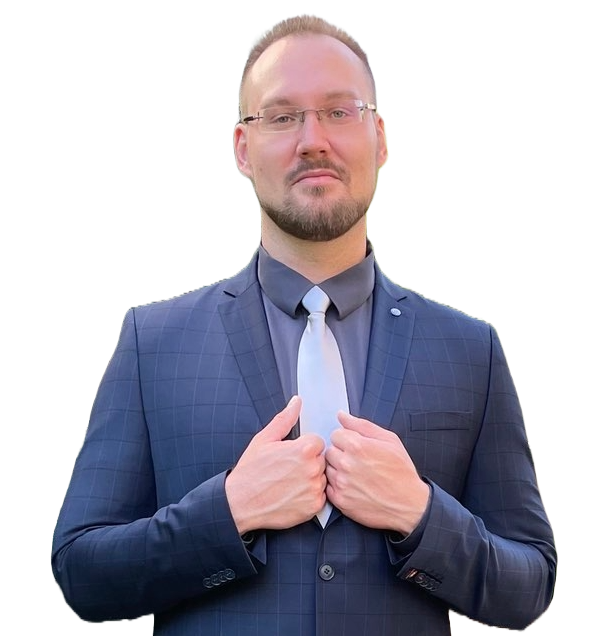
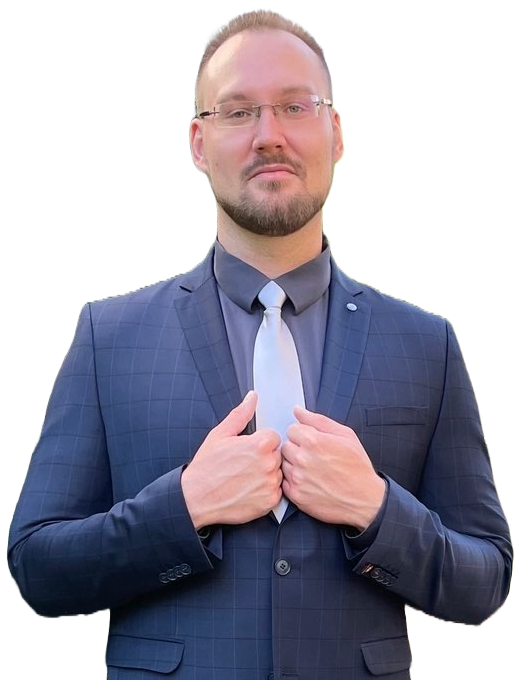
header and above the fold section

diff --git a/src/app/main-content/above-the-fold/above-the-fold.component.scss b/src/app/main-content/above-the-fold/above-the-fold.component.scss
@@ -1,35 +1,114 @@
 @import './../../../styles.scss';
 
 section {
+    position: relative;
+
     display: flex;
     justify-content: space-between;
     align-items: center;
 
-
     width: 1440px;
 
-    border: 1px solid black;
+    background-color: $backgroundColorBlack;
+
+    &>img {
+        position: absolute;
+        top: 242px;
+
+        width: 100%;
+
+        object-fit: contain;
+    }
+}
+
+.profil {
+    display: flex;
+    flex-direction: column;
 
     &>div:nth-child(1) {
-        position: relative;
+        display: flex;
+        justify-content: flex-start;
+        align-items: flex-start;
+
+        width: 807px;
+        height: 771px;
+
+        background-image: url('./../../../assets/graphics/shadows/photo\ shadows.png');
+        background-repeat: no-repeat;
+        background-position: -56px 72px;
+        background-size: contain;
 
         &>img {
-            width: 646px;
-            height: 705px;
-
             object-fit: contain;
 
-            border: 1px solid black;
-        }
-
-        &>img:nth-child(2) {
-            position: absolute;
-            left: 0;
+            margin-left: 64px;
         }
     }
 
-    &>div:nth-child(2) {
+    .find-me-on {
         display: flex;
-        justify-content: center;
+        gap: 32px;
+
+        z-index: 99;
+
+        &>div {
+            display: flex;
+            align-items: center;
+
+            &>div {
+                width: 100px;
+
+                border: 4px solid $textColorPurple;
+
+            }
+        }
+
+        &>nav {
+            display: flex;
+            gap: 42px;
+        }
+
+        &>a {
+            font-size: 23px;
+
+            color: $textColorWhite;
+        }
+    }
+}
+
+.headline {
+    position: absolute;
+    right: 56px;
+    top: 160px;
+
+    display: flex;
+    justify-content: center;
+    align-items: center;
+
+    color: $textColorWhite;
+
+    &>span {
+        display: inline-flex;
+        font-size: 64px;
+
+        transform: translateX(20px) rotate(-90deg);
+    }
+
+    &>div {
+        text-align: center;
+
+        &>span {
+            line-height: 92px;
+        }
+
+        &>span:nth-child(1) {
+            font-size: 84px;
+        }
+
+        &>span:nth-child(3) {
+            font-size: 58px;
+
+            color: $textColorPurple;
+        }
     }
 }

diff --git a/src/app/main-content/above-the-fold/above-the-fold.component.html b/src/app/main-content/above-the-fold/above-the-fold.component.html
@@ -1,13 +1,45 @@
 <section>
-    <div>
-        <img src="./../../../assets/graphics/shadows/photo shadows.png" alt="">
-        <img src="./../../../assets/graphics/profil/profil_1.png" alt="">
+
+    <div class="profil">
+
+        <div>
+            <img src="./../../../assets/graphics/profil/profil_1.png" alt="">
+        </div>
+
+        <div class="find-me-on">
+            <div>
+                <div></div>
+            </div>
+
+            <nav>
+                <a href="">
+                    <img src="./../../../assets/graphics/icons/github-small.png" alt="">
+                </a>
+                <a href="">
+                    <img src="./../../../assets/graphics/icons/email-small.png" alt="">
+                </a>
+                <a href="">
+                    <img src="./../../../assets/graphics/icons/linkedin-small.png" alt="">
+                </a>
+            </nav>
+
+            <a href="#">stephan.schmidt821&#64;gmail.com</a>
+        </div>
+
     </div>
-    <div class="font-family-poppins">
+
+    <div class="headline font-family-poppins">
+
         <span>I am</span>
+
         <div>
             <span><b>Stephan Schmidt</b></span>
+            <br>
             <span>FRONTEND DEVELOPER</span>
         </div>
+
     </div>
+
+    <img src="./../../../assets/graphics/vector/Vector.png" alt="">
+
 </section>

diff --git a/src/styles.scss b/src/styles.scss
@@ -3,6 +3,8 @@
 /* ---------------- */
 
 $backgroundColorBlack: rgb(20, 29, 47);
+$textColorPurple: rgb(151,71,255);
+$textColorWhite: white;
 
 
 
@@ -13,6 +15,10 @@ body {
     align-items: center;
 
     margin: 0;
+}
+
+a {
+  text-decoration: none;
 }
 
 

diff --git a/src/app/shared/components/header/header.component.scss b/src/app/shared/components/header/header.component.scss
@@ -14,6 +14,8 @@ header {
 
     color: white;
     background-color: $backgroundColorBlack;
+
+    z-index: 99;
 }
 
 img {
@@ -31,7 +33,7 @@ nav {
 
 a {
     color: white;
-    text-decoration: none;
+
     font-size: 23px;
 }
 
